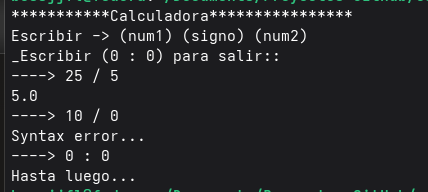
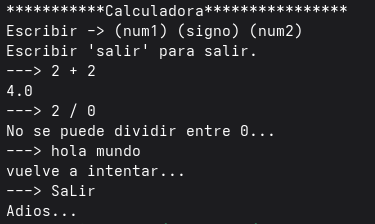
Actualizacion de readme

diff --git a/README.md b/README.md
@@ -5,10 +5,11 @@ Calculadora simple desarrollada en Java que funciona completamente por consola. 
 ## Características
 
 - Operaciones: suma (+), resta (-), multiplicación (*) y división (/)
+- Manejo de excepciones en ingreso de datos.
 - Soporte para números enteros y decimales
 - Control de división por cero
 - Bucle continuo para realizar varias operaciones sin reiniciar el programa
-- Opción clara para salir escribiendo `0 : 0`
+- Opción clara para salir escribiendo `salir`
 
 ## Requisitos
 
@@ -38,7 +39,7 @@ java -cp src Calculadora
 ```
 
 ## Ejemplo de uso
-```
+
 === Calculadora Básica ===
 Operaciones disponibles: +  -  *  /
 Escribe 'salir' para terminar.
@@ -53,9 +54,8 @@ Segundo número: 0
 Operación (+, -, *, /): /
 Error: No se puede dividir por cero.
 
-Primer número: 0 : 0
-¡Hasta luego!
-```
+Primer número: salir
+Adios...
 
 ## Estructura del proyecto
 
